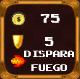
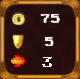
agregado boton de gigante

Changed region(s): [[0.375, 0.6329, 0.925, 0.9114], [0.3, 0.6329, 0.4, 0.7342]]

diff --git a/The Wall Defense/src/interfaz/botones/BtnGigante.java b/The Wall Defense/src/interfaz/botones/BtnGigante.java
@@ -1,0 +1,87 @@
+package interfaz.botones;
+
+import java.awt.event.MouseAdapter;
+import java.awt.event.MouseEvent;
+
+import javax.swing.ImageIcon;
+
+import interfaz.Escenario;
+import jugador.Jugador;
+import mapa.Celda;
+
+/*
+ * Clase BtnArquero.
+ * Clase encargada del boton para el despliegue de un arquero.
+ */
+
+public class BtnGigante extends BtnJugador {
+
+	// Atributos locales.
+	protected static final long serialVersionUID = 1L;
+
+	// Constructor.
+	public BtnGigante(Escenario e) {
+		super(e);
+		Celda c = null;
+		// player = new Arquero(c);
+		// player.guardarInicio();
+		imagen = new ImageIcon(this.getClass().getResource("/resources/static/botones/personajes/gigante.png"));
+		info = new ImageIcon(
+				this.getClass().getResource("/resources/static/botones/personajes/gigantedescripcion.png"));
+		this.setIcon(imagen);
+		// costo = player.getCosto();
+		oyente();
+
+	}
+
+	// Metodos heredados.
+	@Override
+	public void create() {
+		stage.getMapa().crearJugador(player);
+
+	}
+
+	@Override
+	public void oyente() {
+
+		this.addMouseListener(new MouseAdapter() {
+
+			@Override
+			public void mouseEntered(MouseEvent evento) {
+				setIcon(info);
+
+			}
+
+			@Override
+			public void mouseExited(MouseEvent evento) {
+				setIcon(imagen);
+
+			}
+
+		});
+	}
+
+	public void crearPersonaje() {
+
+		if (this.isEnabled()) {
+			create();
+		}
+
+	}
+
+	public void deshabilitar() {
+		this.setEnabled(false);
+	}
+
+	public Jugador getPlayer() {
+		// TODO Auto-generated method stub
+		return player;
+	}
+
+	@Override
+	public int getCosto() {
+		// TODO Auto-generated method stub
+		return costo;
+	}
+
+}

diff --git a/The Wall Defense/src/interfaz/MenuCompra.java b/The Wall Defense/src/interfaz/MenuCompra.java
@@ -17,6 +17,7 @@ import interfaz.botones.BtnArquero;
 import interfaz.botones.BtnCaballero;
 import interfaz.botones.BtnDragon;
 import interfaz.botones.BtnEspadachin;
+import interfaz.botones.BtnGigante;
 import mapa.Mapa;
 
 /*
@@ -35,7 +36,7 @@ public class MenuCompra extends JPanel {
 	protected Icon background;
 	protected BtnDragon dragon;
 	protected BtnArquero ygritte;
-
+	protected BtnGigante gigante;
 	protected BtnCaballero lannister;
 	protected BtnEspadachin JonSnow;
 	protected Director director;
@@ -54,6 +55,8 @@ public class MenuCompra extends JPanel {
 
 	// Metodos locales.
 	private void armarBotonera() {
+
+		gigante = new BtnGigante(this.escenario);
 
 		dragon = new BtnDragon(this.escenario);
 
@@ -130,6 +133,7 @@ public class MenuCompra extends JPanel {
 		agregarBoton(dragon);
 		agregarBoton(lannister);
 		agregarBoton(JonSnow);
+		agregarBoton(gigante);
 
 	}
 

diff --git a/The Wall Defense/src/interfaz/GUI.java b/The Wall Defense/src/interfaz/GUI.java
@@ -32,6 +32,7 @@ public class GUI extends JFrame {
 	protected JPanel panelSuperior;
 	protected JPanel grafica;
 	protected JButton go;
+	protected ImageIcon imagen;
 
 	// Constructor.
 	public GUI() {
@@ -82,6 +83,10 @@ public class GUI extends JFrame {
 			}
 
 		});
+
+		// Imagen de frame
+		imagen = new ImageIcon(this.getClass().getResource("/resources/static/background/icon2.jpg"));
+		this.setIconImage(imagen.getImage());
 
 		// Panel Inferior
 		panelInferior = new JPanel();
